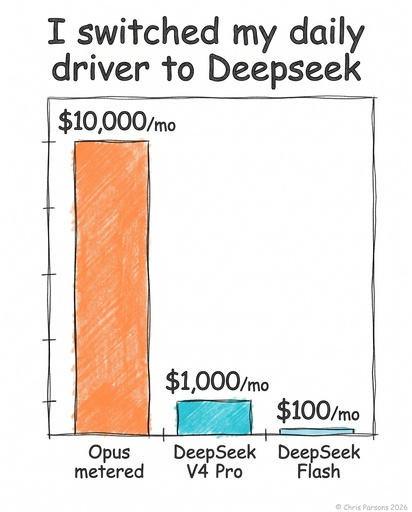
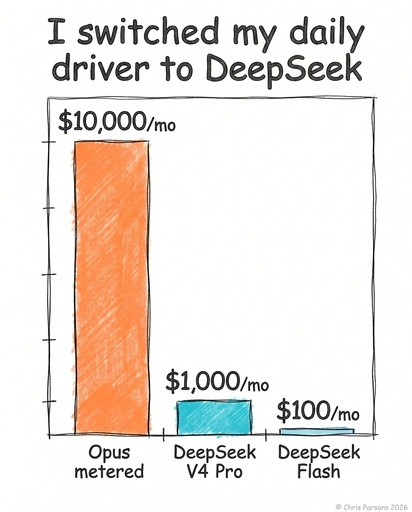
changes the game, fixed bar chart asset

Changed region(s): [[0.3786, 0.0938, 0.8738, 0.1875]]

diff --git a/_posts/2026-05-15-open-models-are-ready.md b/_posts/2026-05-15-open-models-are-ready.md
@@ -67,7 +67,7 @@ I wrote about the open source cost argument in August last year, [Doing Real Wor
 
 George Hotz made the same point more sharply in April: frontier closed-source models cost at least 10x more to produce than the best open-weight alternatives, and the open models are only about six months behind on capability. At that gap-closure rate, any moat based on model quality depreciates within months.[^6]
 
-For the work my system does, reading project notes, making bounded decisions, executing tool calls, writing updates, DeepSeek V4 Pro is good enough. And good enough at 10% of the cost changes the design space.
+For the work my system does, reading project notes, making bounded decisions, executing tool calls, writing updates, DeepSeek V4 Pro is good enough. And good enough at 10% of the cost changes the game.
 
 Thanks to Willem van den Ende for the [Pi setup guide](https://willemvandenende.com/blog/engineering/how-to-get-started-with-the-pi-coding-agent-on-a-vps) and the conversations that shaped this migration.
 